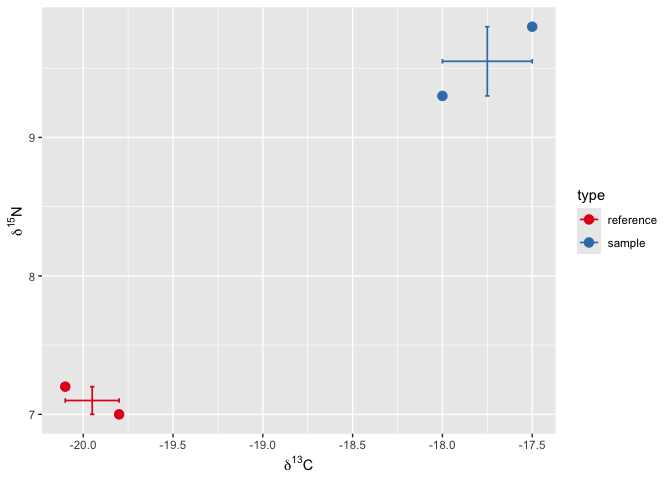
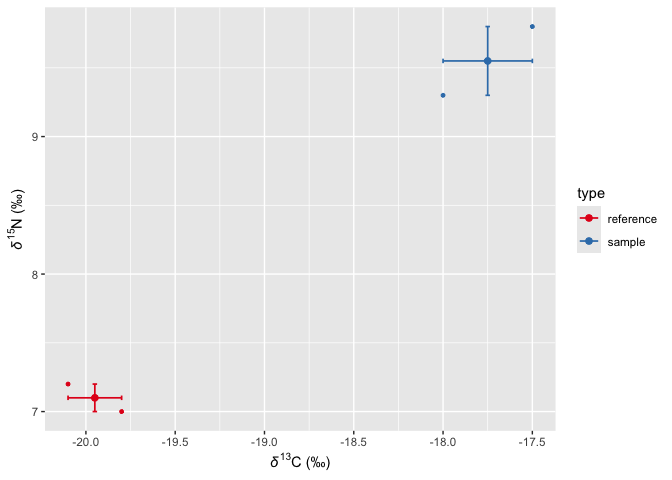
Update README

diff --git a/README.md b/README.md
@@ -16,7 +16,7 @@ library(ggbothbar)
 packageVersion("ggbothbar")
 ```
 
-    [1] '1.0.0'
+    [1] '1.0.1'
 
 ``` r
 library(ggplot2)
@@ -25,3 +25,79 @@ ggplot(mtcars, aes(x = wt, y = mpg)) +
 ```
 
 ![](README_files/figure-commonmark/demo-1.png)
+
+## Isotopic data workflows
+
+The package includes helpers for mycoheterotrophic isotopic data. Start
+from replicate measurements, calculate enrichment, then visualise
+group-level uncertainty along both axes.
+
+``` r
+iso_raw <- tibble::tribble(
+  ~type,       ~d13c, ~d15n,
+  "reference", -20.1,   7.2,
+  "reference", -19.8,   7.0,
+  "sample",    -17.5,   9.8,
+  "sample",    -18.0,   9.3
+)
+
+iso_enriched <- calc_enrichment(iso_raw, delta = c("d13c", "d15n"))
+iso_enriched
+```
+
+    # A tibble: 4 × 5
+      type       d13c  d15n   e13c    e15n
+      <chr>     <dbl> <dbl>  <dbl>   <dbl>
+    1 reference -20.1   7.2 -0.150  0.100 
+    2 reference -19.8   7    0.150 -0.1000
+    3 sample    -17.5   9.8  2.45   2.7   
+    4 sample    -18     9.3  1.95   2.20  
+
+### Error bars in both directions
+
+`geom_errorbarb()` summarises each group into cross-shaped error bars.
+Supply a grouping aesthetic so replicates for the same taxon or
+treatment are combined.
+
+``` r
+ggplot(
+  iso_enriched,
+  aes(d13c, d15n, colour = type, group = type)
+) +
+  geom_point(size = 1) +
+  stat_mean_point(size = 2) +
+  geom_errorbarb(fun.errorbar = "se", linewidth = 0.6, errorbar_tip_size = 1.2) +
+  scale_colour_brewer(palette = "Set1") +
+  labs(x = label_isotope(13, "C"), y = label_isotope(15, "N"))
+```
+
+![](README_files/figure-commonmark/iso-barb-1.png)
+
+### Enrichment factor with Error boxes
+
+``` r
+ggplot() +
+  geom_hline(yintercept = 0, linetype = "dotted", colour = "grey50") +
+  geom_vline(xintercept = 0, linetype = "dotted", colour = "grey50") +
+  stat_mean_point(
+    data = filter(iso_enriched, type != "reference"),
+    mapping = aes(x = e13c, y = e15n),
+    size = 2
+  ) +
+  geom_errorbarb(
+    data = filter(iso_enriched, type != "reference"),
+    mapping = aes(x = e13c, y = e15n),
+    fun.errorbar = "sd"
+  ) +
+  geom_errorbox(
+    data = filter(iso_enriched, type == "reference"),
+    mapping = aes(x = e13c, y = e15n),
+    fill = NA,
+    fun.errorbar = "sd",
+    colour = "darkgreen"
+  ) +
+  labs(x = label_isotope(13, "C", "epsilon"), y = label_isotope(15, "N", "epsilon")) +
+  theme_isotope(base_family = "Arial")
+```
+
+![](README_files/figure-commonmark/iso-box-1.png)